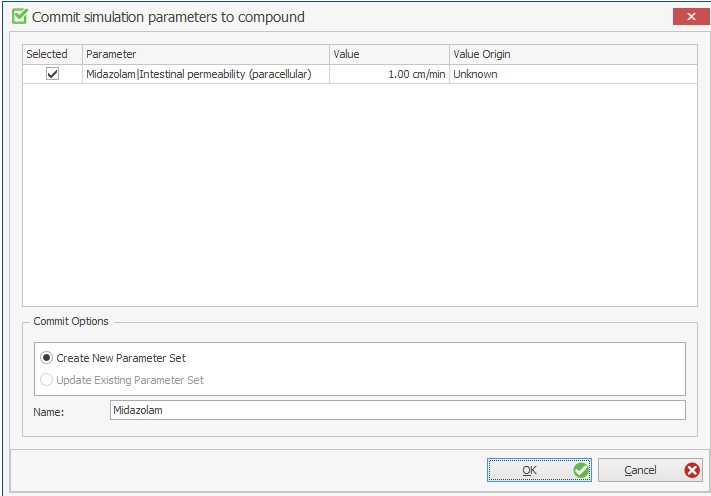
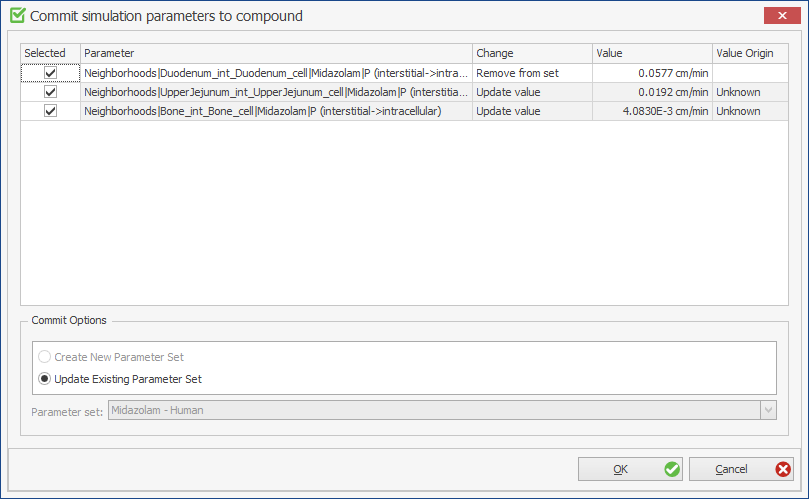
Rewrite the OPS part

Changed region(s): [[0.0, 0.0, 1.0, 1.0]]

diff --git a/part-3/pk-sim-overwrite-parameter-sets.md b/part-3/pk-sim-overwrite-parameter-sets.md
@@ -4,9 +4,7 @@
 
 Not every compound-dependent parameter of a simulation is stored in the **Compound** building block. Many of them — for example organ-plasma partition coefficients, cellular permeabilities or the permeabilities of the endothelial barriers — are *calculated* during simulation creation from the physico-chemical properties of the compound and from the properties of the individual. Such parameters only exist inside the simulation, and PK-Sim® treats them as **simulation parameters**.
 
-If you replace such a calculated value by a constant value of your own — for example a partition coefficient obtained from an in vitro experiment, or a permeability obtained by parameter identification — the new value lives in that one simulation only. It is not part of the compound, so it is not applied when the same compound is used in another simulation, it is not carried over when the compound is saved as a template, and it has to be re-entered manually every time.
-
-An **Overwrite Parameter Set** solves this. It is a *named collection of parameter values* that is stored inside the Compound building block. You create it by **committing** the changed simulation parameters of a compound back to that compound, and you re-use it by **selecting** it when a simulation is created or configured. One Overwrite Parameter Set can be selected per compound and simulation, and selecting one is optional.
+Manual overrides of such parameters — for example a partition coefficient obtained from an in vitro experiment, or a permeability obtained by parameter identification — can be stored in **Overwrite Parameter Sets**. An "Overwrite Parameter Set" is a *named collection of parameter values* that is stored inside the Compound building block. You create it by **committing** the changed simulation parameters of a compound back to that compound, and you re-use it by **selecting** it when a simulation is created or configured. One Overwrite Parameter Set can be selected per compound and simulation, and selecting one is optional.
 
 {% hint style="info" %}
 Overwrite Parameter Sets complement, but do not replace, the existing synchronization between a simulation and its building blocks (see [Synchronization options for building blocks in a simulation](pk-sim-simulations.md#synchronization-options-for-building-blocks-in-a-simulation)). **Commit to Building Block** writes back the values of parameters that *exist* in the compound; an Overwrite Parameter Set stores the values of compound-dependent parameters that *do not exist* in the compound.
@@ -16,26 +14,24 @@ Overwrite Parameter Sets complement, but do not replace, the existing synchroniz
 
 A simulation parameter is offered for a commit when both of the following are true:
 
-- It is a **simulation parameter**, i.e. its value is not taken from a building block but is calculated during simulation creation.
-- Its path contains the name of a compound that is used as a building block in the simulation configuration.
+- It is a **simulation parameter**, i.e. its value is not taken from a Compound building block but is calculated during simulation creation (usually, these are the parameters that depend on the compounds *and* individual properties).
+- Its path contains the name of the compound.
 
-Compounds that are created inside the simulation but are not part of the simulation configuration — for example an unnamed metabolite of a parent/metabolite simulation — are therefore not considered.
+Compounds that are created inside the simulation but are not represented by a separate Compound building block — for example an unnamed metabolite of a parent/metabolite simulation — are not considered.
 
 Parameters that were applied from an Overwrite Parameter Set are also offered for a commit if you change them again, so a set can be refined step by step.
 
 ## Uncommitted changes
 
-As soon as you change such a parameter, PK-Sim® marks the change as **uncommitted**. This is shown by an orange indicator:
+As soon as you change the value of such a parameter in a simulation, PK-Sim® marks the change as **uncommitted**. This is shown by an orange indicator:
 
 - On the **simulation** in the **Simulation Explorer**, an orange overlay is added to the simulation icon as long as the simulation contains any uncommitted compound-dependent change.
-- On the **compound inside the simulation**, a second, orange status indicator is added next to the green or red synchronization state, which itself does not change. The combination of a green and an orange indicator means that the compound is in sync with its building block but has uncommitted compound-dependent parameter changes; the combination of a red and an orange indicator means that it is out of sync *and* has uncommitted changes.
+- On the **compound inside the simulation**, the orange status indicator is added next to the green or red synchronization state. The combination of a green and an orange indicator means that the compound is in sync with its building block properties, but has uncommitted compound-dependent parameter changes; the combination of a red and an orange indicator means that it is out of sync (e.g., parameters that are defined in the compounds building block, such as Lipophilicty, or any of the ADME processes, differ) *and* has uncommitted changes.
 
 ![The Simulation Explorer of a simulation with two compounds. The simulation icon carries an orange overlay. Midazolam has only uncommitted compound-dependent changes, Keto-Itraconazole is in addition out of sync with its building block.](../assets/images/part-3/overwrite-parameter-sets-uncommitted-indicator.png)
 
-Resetting a parameter to its original value removes it from the uncommitted changes again, and undo/redo restores the previous state of the indicator. The list of uncommitted changes is saved with the project, so the indicator is still there when the project is reopened.
-
 {% hint style="warning" %}
-Resetting a parameter that was applied from an Overwrite Parameter Set returns it to the value originally calculated for the simulation, not to the value stored in the set, and removes it from the uncommitted changes. Neither the simulation nor the compound is marked as differing from the set, so the simulation then uses a value that the selected set does not contain. Configuring the simulation applies the set again and restores the stored value; committing to the selected set instead removes the parameter from the set.
+Resetting a parameter that was applied from an Overwrite Parameter Set returns it to the value originally calculated for the simulation. Committing to the selected set removes the parameter from the set.
 {% endhint %}
 
 ## Committing simulation parameters to a compound
@@ -51,39 +47,31 @@ The action is only offered for a compound of an **individual simulation** that a
 
 The **Commit simulation parameters to compound** dialog opens. It contains:
 
-- A table of all uncommitted parameters of this compound, with the columns **Selected**, **Parameter** (the path of the parameter in the simulation), **Value** (with its display unit) and **Value Origin**. Every parameter is selected by default; clear the check box of the ones you do not want to store.
-- A **Commit Options** group with two mutually exclusive choices:
+- A table of all uncommitted parameters of this compound, with the columns **Selected**, **Parameter** (the path of the parameter in the simulation), **Change** (update value, or remove from the list), **Value** (with its display unit), and **Value Origin**. Every parameter is selected by default; clear the check box of the ones you do not want to store.
+- A **Commit Options** group:
   - **Create New Parameter Set** — enter a **Name** for the new set. By default it is filled in with the name of the compound. The name must not be empty and must not be used by another Overwrite Parameter Set of the same compound.
   - **Update Existing Parameter Set** — select an existing set from the **Parameter Set** drop-down list. This option is disabled as long as the compound has no Overwrite Parameter Set yet.
 
 ![The Commit simulation parameters to compound dialog. The table lists the uncommitted parameters of the compound, and a new Overwrite Parameter Set is being created under the Commit Options.](../assets/images/part-3/overwrite-parameter-sets-commit-dialog.png)
 
-Confirm with **OK**. The set is created in — or updated on — the Compound building block of the project, and the committed parameters are no longer marked as uncommitted. The whole commit is a single action and can be undone.
+Confirm with **OK**. The set is created in — or updated on — the Compound building block of the project, and the committed parameters are no longer marked as uncommitted. Keep in mind that this action cannot be undone.
 
-Because the commit changes the Compound building block, the compound is afterwards shown as out of sync with the simulation, even when the set holds exactly the values the simulation currently has. **Update from Building Block** or **Commit to Building Block** on that compound copies the sets into the compound of the simulation and clears the difference.
-
-Committing does not change which Overwrite Parameter Set is selected for the simulation. Selecting the new set automatically would replace a set that is already selected, and since a new set contains only the parameters of that commit, the values supplied by the previously selected set would be lost the next time the simulation is built.
+When a new parameter set is created during the commit, this set is automatically selected in the simulation configuration for this compound.
 
 ### What happens when an existing set is updated
-
-Updating an existing set is not a full replacement. PK-Sim® keeps the set consistent with the current state of the simulation:
 
 - Parameters you are committing are added to the set, or their stored value is overwritten.
 - Parameters that were in the set and that you have **reset** in the simulation since the last commit are **removed** from the set.
 - Parameters that were in the set and that you have not touched are **preserved**.
 
-After an update commit, re-creating the simulation with this set therefore reproduces exactly the parameter values the simulation has at the moment of the commit.
-
-{% hint style="warning" %}
-The dialog lists only the parameters that are currently uncommitted, not the whole content of the set. Entries that you have reset in the simulation are therefore removed from the set by the commit without appearing in the dialog.
-{% endhint %}
+If you do not select all changed parameters to the commit, the simulation will still show the orange indicator, since the parametrization in the simulation still differs from the values in the Building Block and the Overwrite Parameter Set.
 
 ## The Overwrite Parameter Sets tab of a compound
 
-The Overwrite Parameter Sets of a compound are shown in the same-named tab of the compound editor, after the **Advanced Parameters** tab. The tab uses a master-detail layout:
+The Overwrite Parameter Sets of a compound are shown in the same-named tab of the compound editor.
 
-- The **list on the left** shows all Overwrite Parameter Sets of the compound with the columns **Name**, **Default**, **Species** and **Disease State**, followed by a button that deletes the set.
-- The **details on the right** show the **Metadata** of the selected set above a table of its parameter values, with the columns **Path**, **Value** and **Value Origin**, followed by a button that deletes the entry. The value is displayed together with its unit.
+- The **list on the left** shows all Overwrite Parameter Sets of the compound with the columns **Name**, **Default**, **Species** and **Disease State**.
+- The **details on the right** show the **Metadata** of the selected set above a table of its parameter values, with the columns **Path**, **Value** and **Value Origin**.
 
 ![The Overwrite Parameter Sets tab of a compound. Two sets are defined, the first one is the default and carries Species and Disease State metadata. The tooltip shows the full path of the selected entry.](../assets/images/part-3/overwrite-parameter-sets-compound-tab.png)
 
@@ -98,22 +86,22 @@ In the parameter table you can:
 - Change the **Value** of a stored parameter.
 - Change the unit of the value, in the unit selector of the value editor. As for any other parameter in the suite, the displayed number is kept and the value in base unit is recalculated (see [Default, Display and Base Units](../part-5/default-display-base-units.md)).
 - Set the **Value Origin** of the entry, to document where the value comes from.
-- Delete a single parameter from the set, with the button at the end of its row.
+- Delete a single parameter from the set.
 
 Additionally you can:
 
-- Delete an entire Overwrite Parameter Set, with the button at the end of its row in the list on the left, after confirming the deletion.
-- Mark a set as the **Default** of the compound, or clear that flag. A compound can have at most one default set, and setting a new default clears the previous one. A compound is not required to have a default set. The default set is the one preselected when the compound is used in a new simulation; if the compound has no default set, no set is preselected (see [Using an Overwrite Parameter Set in a simulation](#using-an-overwrite-parameter-set-in-a-simulation)).
-
-All of these changes can be undone.
+- Delete an entire Overwrite Parameter Set.
+- Mark a set as the **Default** of the compound, or clear that flag. A compound is not required to have a default set. The default set is the one preselected when the compound is used in a new simulation; if the compound has no default set, no set is preselected (see [Using an Overwrite Parameter Set in a simulation](#using-an-overwrite-parameter-set-in-a-simulation)).
 
 {% hint style="warning" %}
 An Overwrite Parameter Set that is used in any simulation of the project cannot be deleted. The error message lists the simulations that block the deletion.
 {% endhint %}
 
+When you edit an existing Overwrite Parameter set (e.g., change its values, metadata, or remove entries), or remove a set, all simulations that use this compound get the "Red exclamation mark", even if the overwrite parameter set is not used in the simulation. The reason is that the compounds building block information has changed, even if it is not used in the simulation.
+
 ### Metadata
 
-Each Overwrite Parameter Set can carry optional metadata that documents its intended use — by default **Species** and **Disease State**, chosen from the species and disease states known to PK-Sim®. The metadata is purely informational: it is displayed in the tab and stored with the compound, but it is not used to filter or validate the sets offered in a simulation.
+Each Overwrite Parameter Set can carry optional metadata that documents its intended use — **Species** and **Disease State**. The metadata is purely informational: it is displayed in the tab and stored with the compound, but it is not used to filter or validate the sets offered in a simulation.
 
 ## Using an Overwrite Parameter Set in a simulation
 
@@ -124,8 +112,6 @@ The **Overwrite parameter set in compound** drop-down list offers **\<None\>** p
 - If the compound has a **default** set, it is preselected.
 - If it has none, **\<None\>** is preselected.
 - **\<None\>** means that the compound-dependent simulation parameters keep their originally calculated values.
-
-The sets offered are those of the compound that is selected in the **Model Structure** step of the window — the compound of the project, or the copy currently used by the simulation. A set is added to the compound of the project by the commit, so a newly committed set is offered for the simulation's own copy only after that copy has been updated from the building block.
 
 ![The Compounds tab of the Configure Simulation window. For the compound Midazolam, the Overwrite Parameter Set group offers the sets defined for that compound.](../assets/images/part-3/overwrite-parameter-sets-selection.png)
 
@@ -139,15 +125,8 @@ Midazolam|Intestinal permeability (paracellular)
 
 The set can therefore only be applied to a simulation in which exactly these paths exist.
 
-Parameters that were overwritten this way behave as **compound parameters** from then on:
-
-- They are shown as compound parameters and lose the reset behavior of a simulation parameter, because their reference value is now the value stored in the set.
-- Their value origin is taken from the entry of the set.
-- They have no counterpart in the Compound building block itself, so they can only be written back through a commit to an Overwrite Parameter Set, not through **Commit to Building Block**.
-- Their value depends on the selection from then on: configuring the simulation with **\<None\>** returns them to their originally calculated value. Parameters that were never supplied by a set keep the value you gave them across a configuration.
-
 {% hint style="warning" %}
-If a path stored in the selected Overwrite Parameter Set cannot be resolved in the new simulation, PK-Sim® reports an error listing the unresolved paths and the **simulation is not created**. No value of the set is applied in this case. This happens when the simulation does not contain a parameter stored in the set, for example because a process the parameter belongs to is not part of the simulation, or because the simulation uses a different distribution model or different *Calculation methods* than the simulation the set was committed from.
+If a path stored in the selected Overwrite Parameter Set cannot be resolved in the new simulation, PK-Sim® reports an error listing the unresolved paths and the **simulation is not created**. This happens when the simulation does not contain a parameter stored in the set, for example because a process the parameter belongs to is not part of the simulation, or because the simulation uses a different distribution model or different *Calculation methods* than the simulation the set was committed from.
 {% endhint %}
 
 ## Population simulations
@@ -161,21 +140,11 @@ Committing simulation parameters is not available from a population simulation. 
 
 ## Updating and committing the compound
 
-A compound used in a simulation is a copy of the Compound building block of the project, and it carries its own Overwrite Parameter Sets. Two rules describe how the two are kept together:
+A compound used in a simulation is a copy of the Compound building block of the project, and it carries its own Overwrite Parameter Sets.
 
-1. **The sets of the compound in the simulation are a copy of those in the building block.** Both **Update from Building Block** and **Commit to Building Block** make the compound of the simulation an exact copy of the Overwrite Parameter Sets of the Compound building block: missing sets are added, differing ones updated, and sets that no longer exist in the building block removed. Sets are never copied in the opposite direction — a set reaches the building block only by committing simulation parameters to it.
-2. **Neither operation changes a parameter value that came from a set.** The values of an Overwrite Parameter Set are applied only when the simulation is created or configured.
+**The sets of the compound in the simulation are a copy of those in the building block.** Both **Update from Building Block** and **Commit to Building Block** make the compound of the simulation an exact copy of the Overwrite Parameter Sets of the Compound building block: missing sets are added, differing ones updated, and sets that no longer exist in the building block removed.
 
-The individual situations follow from these two rules:
-
-| Situation | Set in the building block | Set in the compound of the simulation | Parameter value in the simulation |
-| --- | --- | --- | --- |
-| **Commit to Building Block** after the value was changed in the set in the compound | keeps the changed value; it is not overwritten from the simulation | copy of the building block, so the changed value | unchanged |
-| **Commit to Building Block** after simulation parameters were committed to a set that is *not* selected for the simulation | contains the new or updated set | copy of the building block, so the set becomes selectable | unchanged, the set is not selected |
-| **Commit to Building Block** after simulation parameters were committed to the set *selected* for the simulation | holds the values the simulation had at the commit | copy of the building block | unchanged, it already holds these values |
-| **Commit to Building Block** after simulation parameters were committed to *another* set | that other set holds the values, the selected one is untouched | copy of the building block | unchanged |
-| **Update from Building Block** after the value was changed in the set in the compound | changed value | copy of the building block, so the changed value | unchanged; the new value is applied when the simulation is next configured |
-| **Update from Building Block** after an Overwrite Parameter Set parameter was changed in the simulation | unchanged | unchanged | the change is kept and stays an uncommitted change |
+Commiting compound changes from the simulation (e.g., changed lipophilicity) never touches the Over Parameter Values Sets; they are only changed with the "Commit Simulation Parameters to Compound..." action.
 
 ## Overwrite Parameter Sets and the rest of the project
 

diff --git a/part-3/pk-sim-compounds-definition-and-work-flow.md b/part-3/pk-sim-compounds-definition-and-work-flow.md
@@ -14,7 +14,9 @@ A dialog will open, where the properties of the compound can be defined. The com
 
 ![The Create Compound dialog. Here, the basic physico-chemical properties of diclofenac are shown.](../assets/images/part-3/PKSim-Compound-NewCompound.png)
 
-The **Create Compound** window is subdivided into three tabs: **Basic Physico-chemistry**, **ADME Properties**, and **Advanced Properties**.
+The **Create Compound** window is subdivided into four tabs: **Basic Physico-chemistry**, **ADME Properties**, **Advanced Properties**, and **Overwrite Parameter Sets**, which are described in details in the sections below.
+
+After all information about the compound properties has been entered, the **Create Compound** window can be closed by clicking **OK** <img src="../assets/icons/OK.svg" alt="" data-size="line">. The new compound will appear in the **Building Blocks Explorer** view.
 
 ### Basic Physico-Chemistry tab
 
@@ -427,11 +429,9 @@ Four drug-related parameters which are used in the model for proteins and large 
 
 Some parameters that depend on the compound are not part of the compound building block because they are only created in the context of a simulation, e.g., permeabilities or partition coefficients of the organs. If such parameters have been modified in a simulation, they can be committed back to the compound as a named **Overwrite Parameter Set** and re-applied in other simulations and projects.
 
-The **Overwrite Parameter Sets** tab lists all sets defined for the compound in a master-detail view. Parameter values, units, and metadata (e.g., species or disease state) can be inspected and edited, individual parameters or whole sets can be deleted, and one set can be marked as **Default**. New sets are only created by committing from a simulation, never from this tab.
+The **Overwrite Parameter Sets** tab lists all sets defined for the compound. Parameter values, units, and metadata (e.g., species or disease state) can be inspected and edited, individual parameters or whole sets can be deleted, and one set can be marked as **Default**. New sets are only created by committing from a simulation, never from this tab.
 
 See [Overwrite Parameter Sets](pk-sim-overwrite-parameter-sets.md) for the commit workflow, for selecting a set when a simulation is created or configured, and for the behavior in population simulations.
-
-After all information about the compound properties has been entered, the **Create Compound** window can be closed by clicking **OK** <img src="../assets/icons/OK.svg" alt="" data-size="line">. The new compound will appear in the **Building Blocks Explorer** view.
 
 ## Setting or Changing Compound Properties
 
@@ -441,8 +441,6 @@ To set or change the properties of an existing compound:
 2. Select <img src="../assets/icons/Edit.svg" alt="" data-size="line"> **Edit...**
 
 or simply double click on the compound in the **Building Blocks Explorer**.
-
-A window with the tabs **Basic Physico-chemistry**, **ADME Properties**, **Advanced Parameters**, and **Overwrite Parameter Sets** will open. The properties can be set or changed appropriately. The changes can be saved by closing the window by clicking on ![Image](../assets/icons/CloseWindow.png).
 
 ## Cloning Compounds
 

diff --git a/part-4/spatial-structures-bb.md b/part-4/spatial-structures-bb.md
@@ -55,7 +55,6 @@ Parameters located in `MoleculeProperties` are also the place where the distribu
 
 {% hint style="info" %}
 Not every parameter is created for every molecule. In a container, only `Ontogeny factor`, `t1/2`, and `Degradation coefficient` are created for endogenous stationary molecules (e.g., enzymes and transporters), whereas all other `MoleculeProperties` parameters are created for xenobiotic floating molecules (e.g., drugs).
-TODO https://github.com/Open-Systems-Pharmacology/MoBi/issues/2437
 {% endhint %}
 
 When combining modules, `MoleculeProperties` follow the module's merge behavior: they are **extended** under "Extend" and **replaced** under "Overwrite" (see [Modularization concept](modularization-concept.md#spatial-structure)).

diff --git a/part-4/converting-v12-projects-to-v13.md b/part-4/converting-v12-projects-to-v13.md
@@ -1,4 +1,4 @@
-# Converting v12 projects to v13
+# Converting v12 MoBi projects to v13
 
 Version 13 of the OSP Suite refines the [modularization concept](modularization-concept.md) introduced in v12. The organizational structure (Modules → Building Blocks → Simulations) is unchanged, and the *parameter value* and *initial condition* resolution orders are unchanged. What changed is the **merge behavior of several building-block types when modules are combined** — specifically the difference between the **"Extend"** and **"Overwrite"** merge modes.
 
